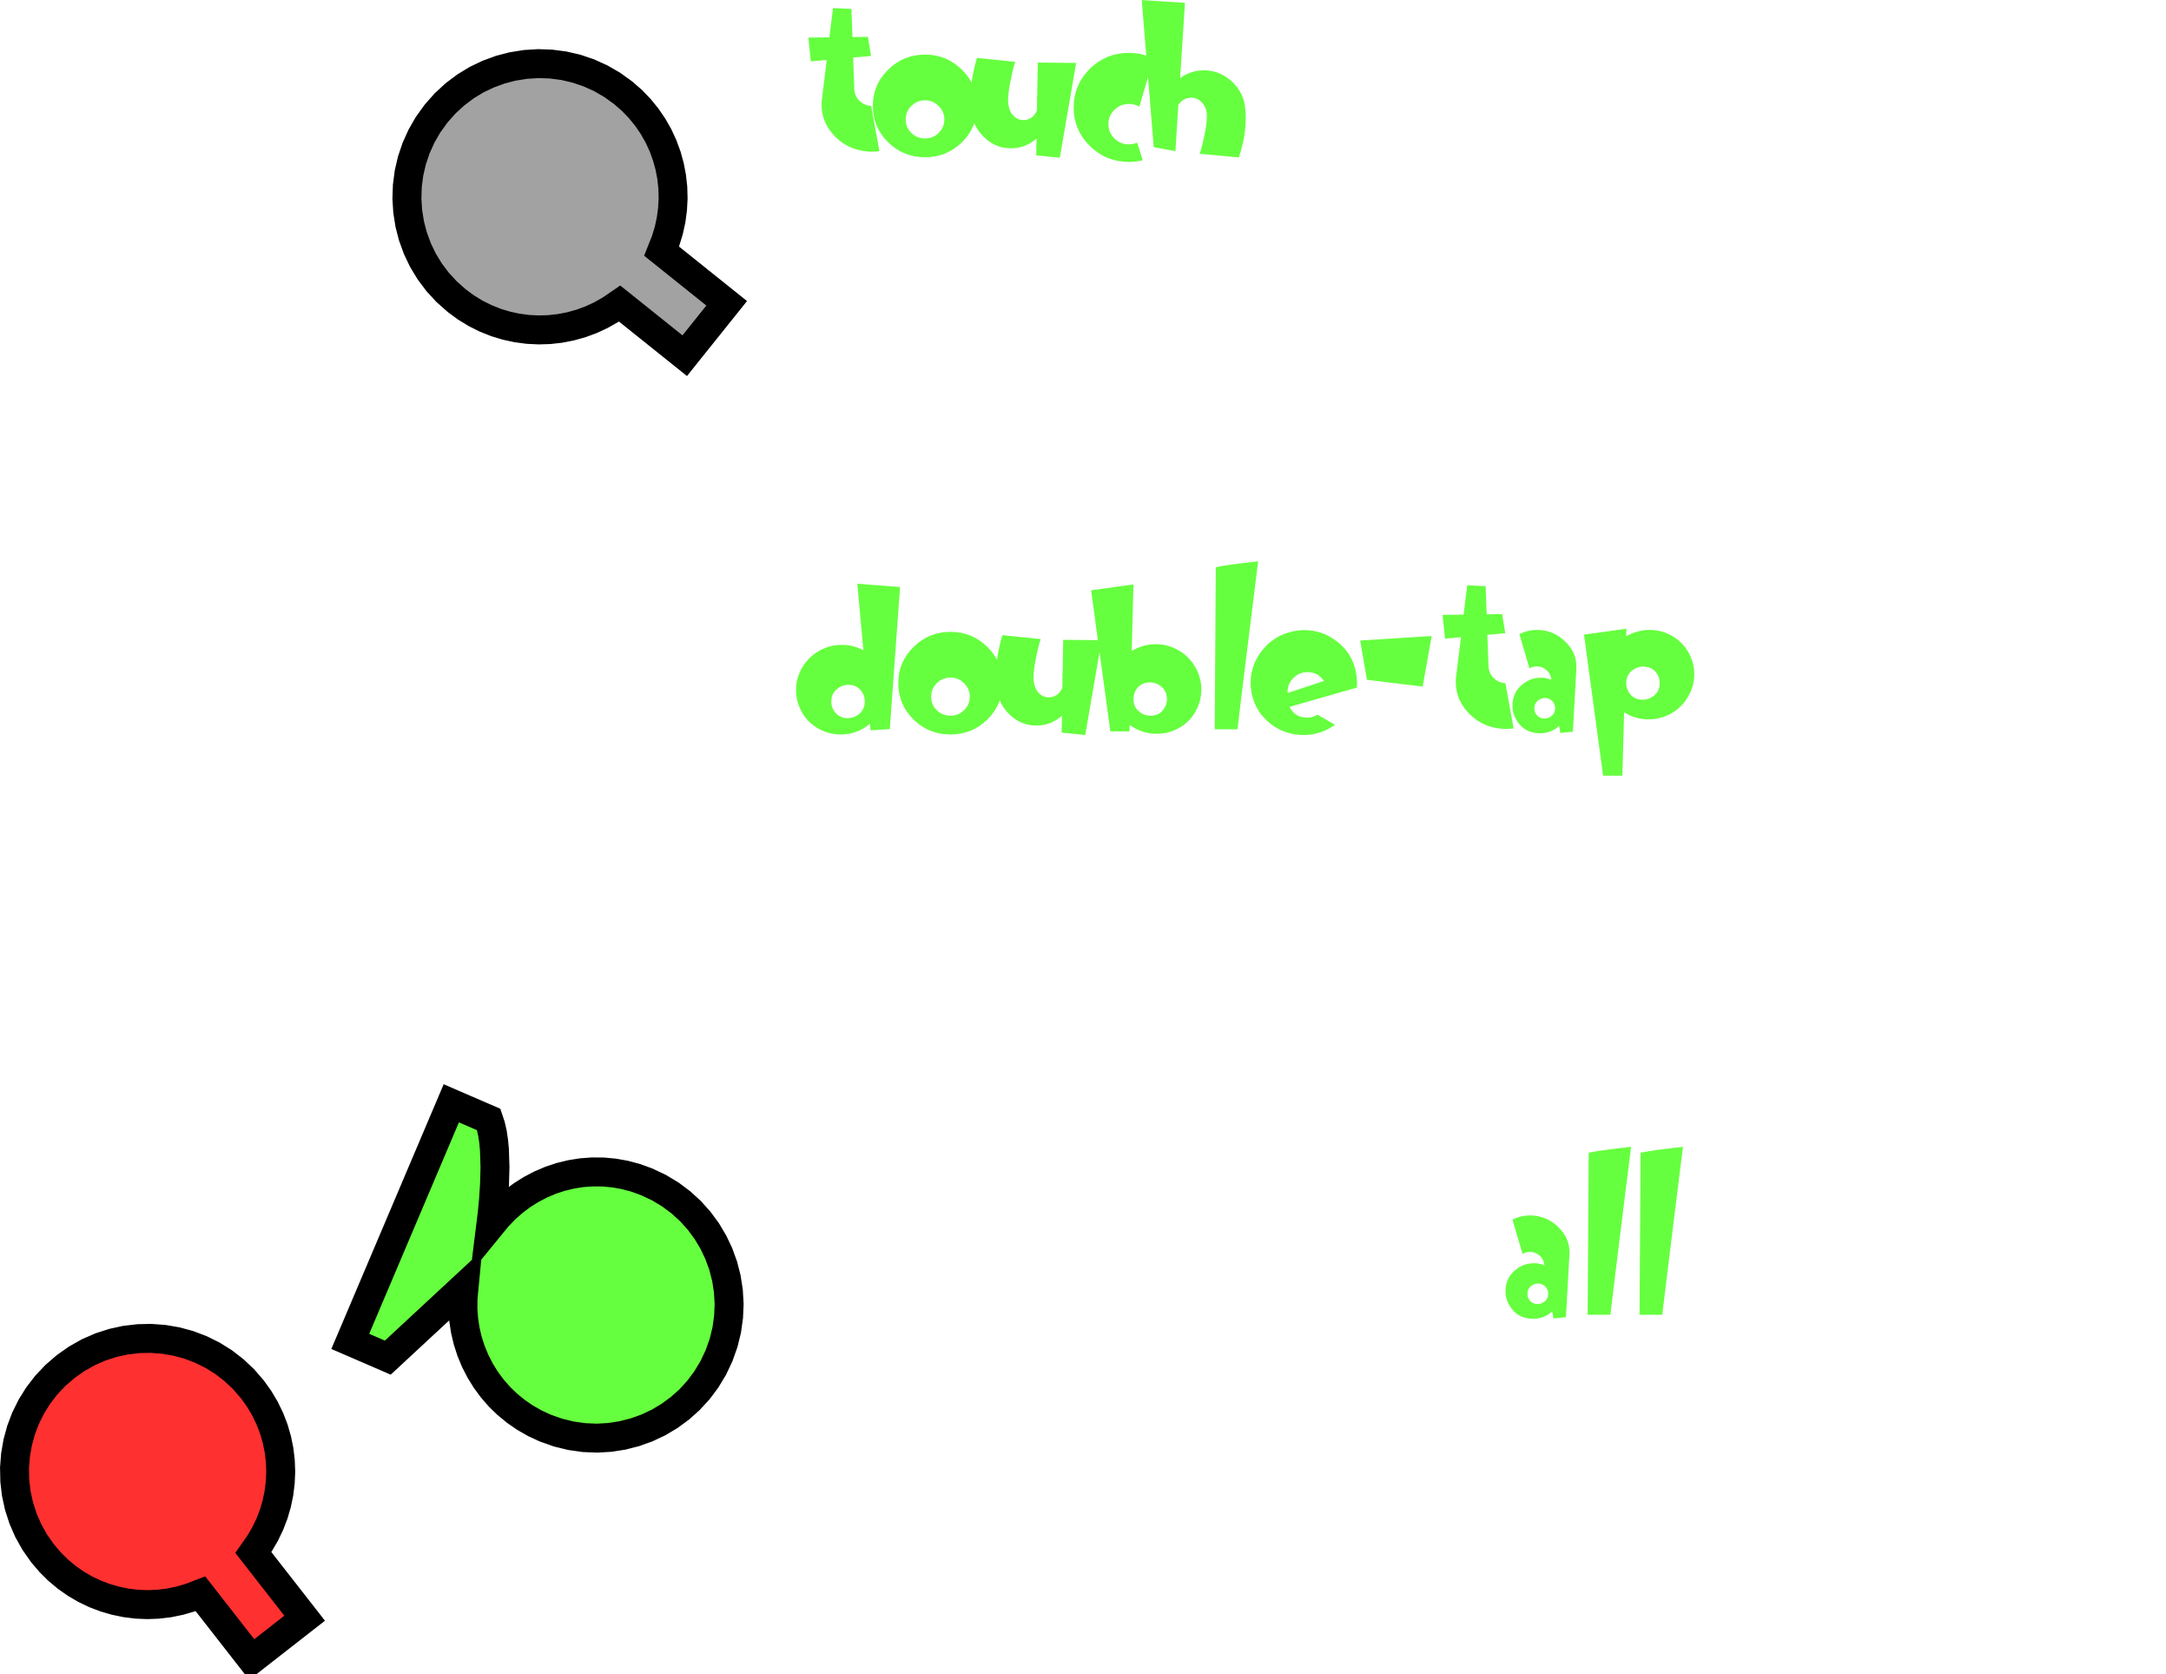
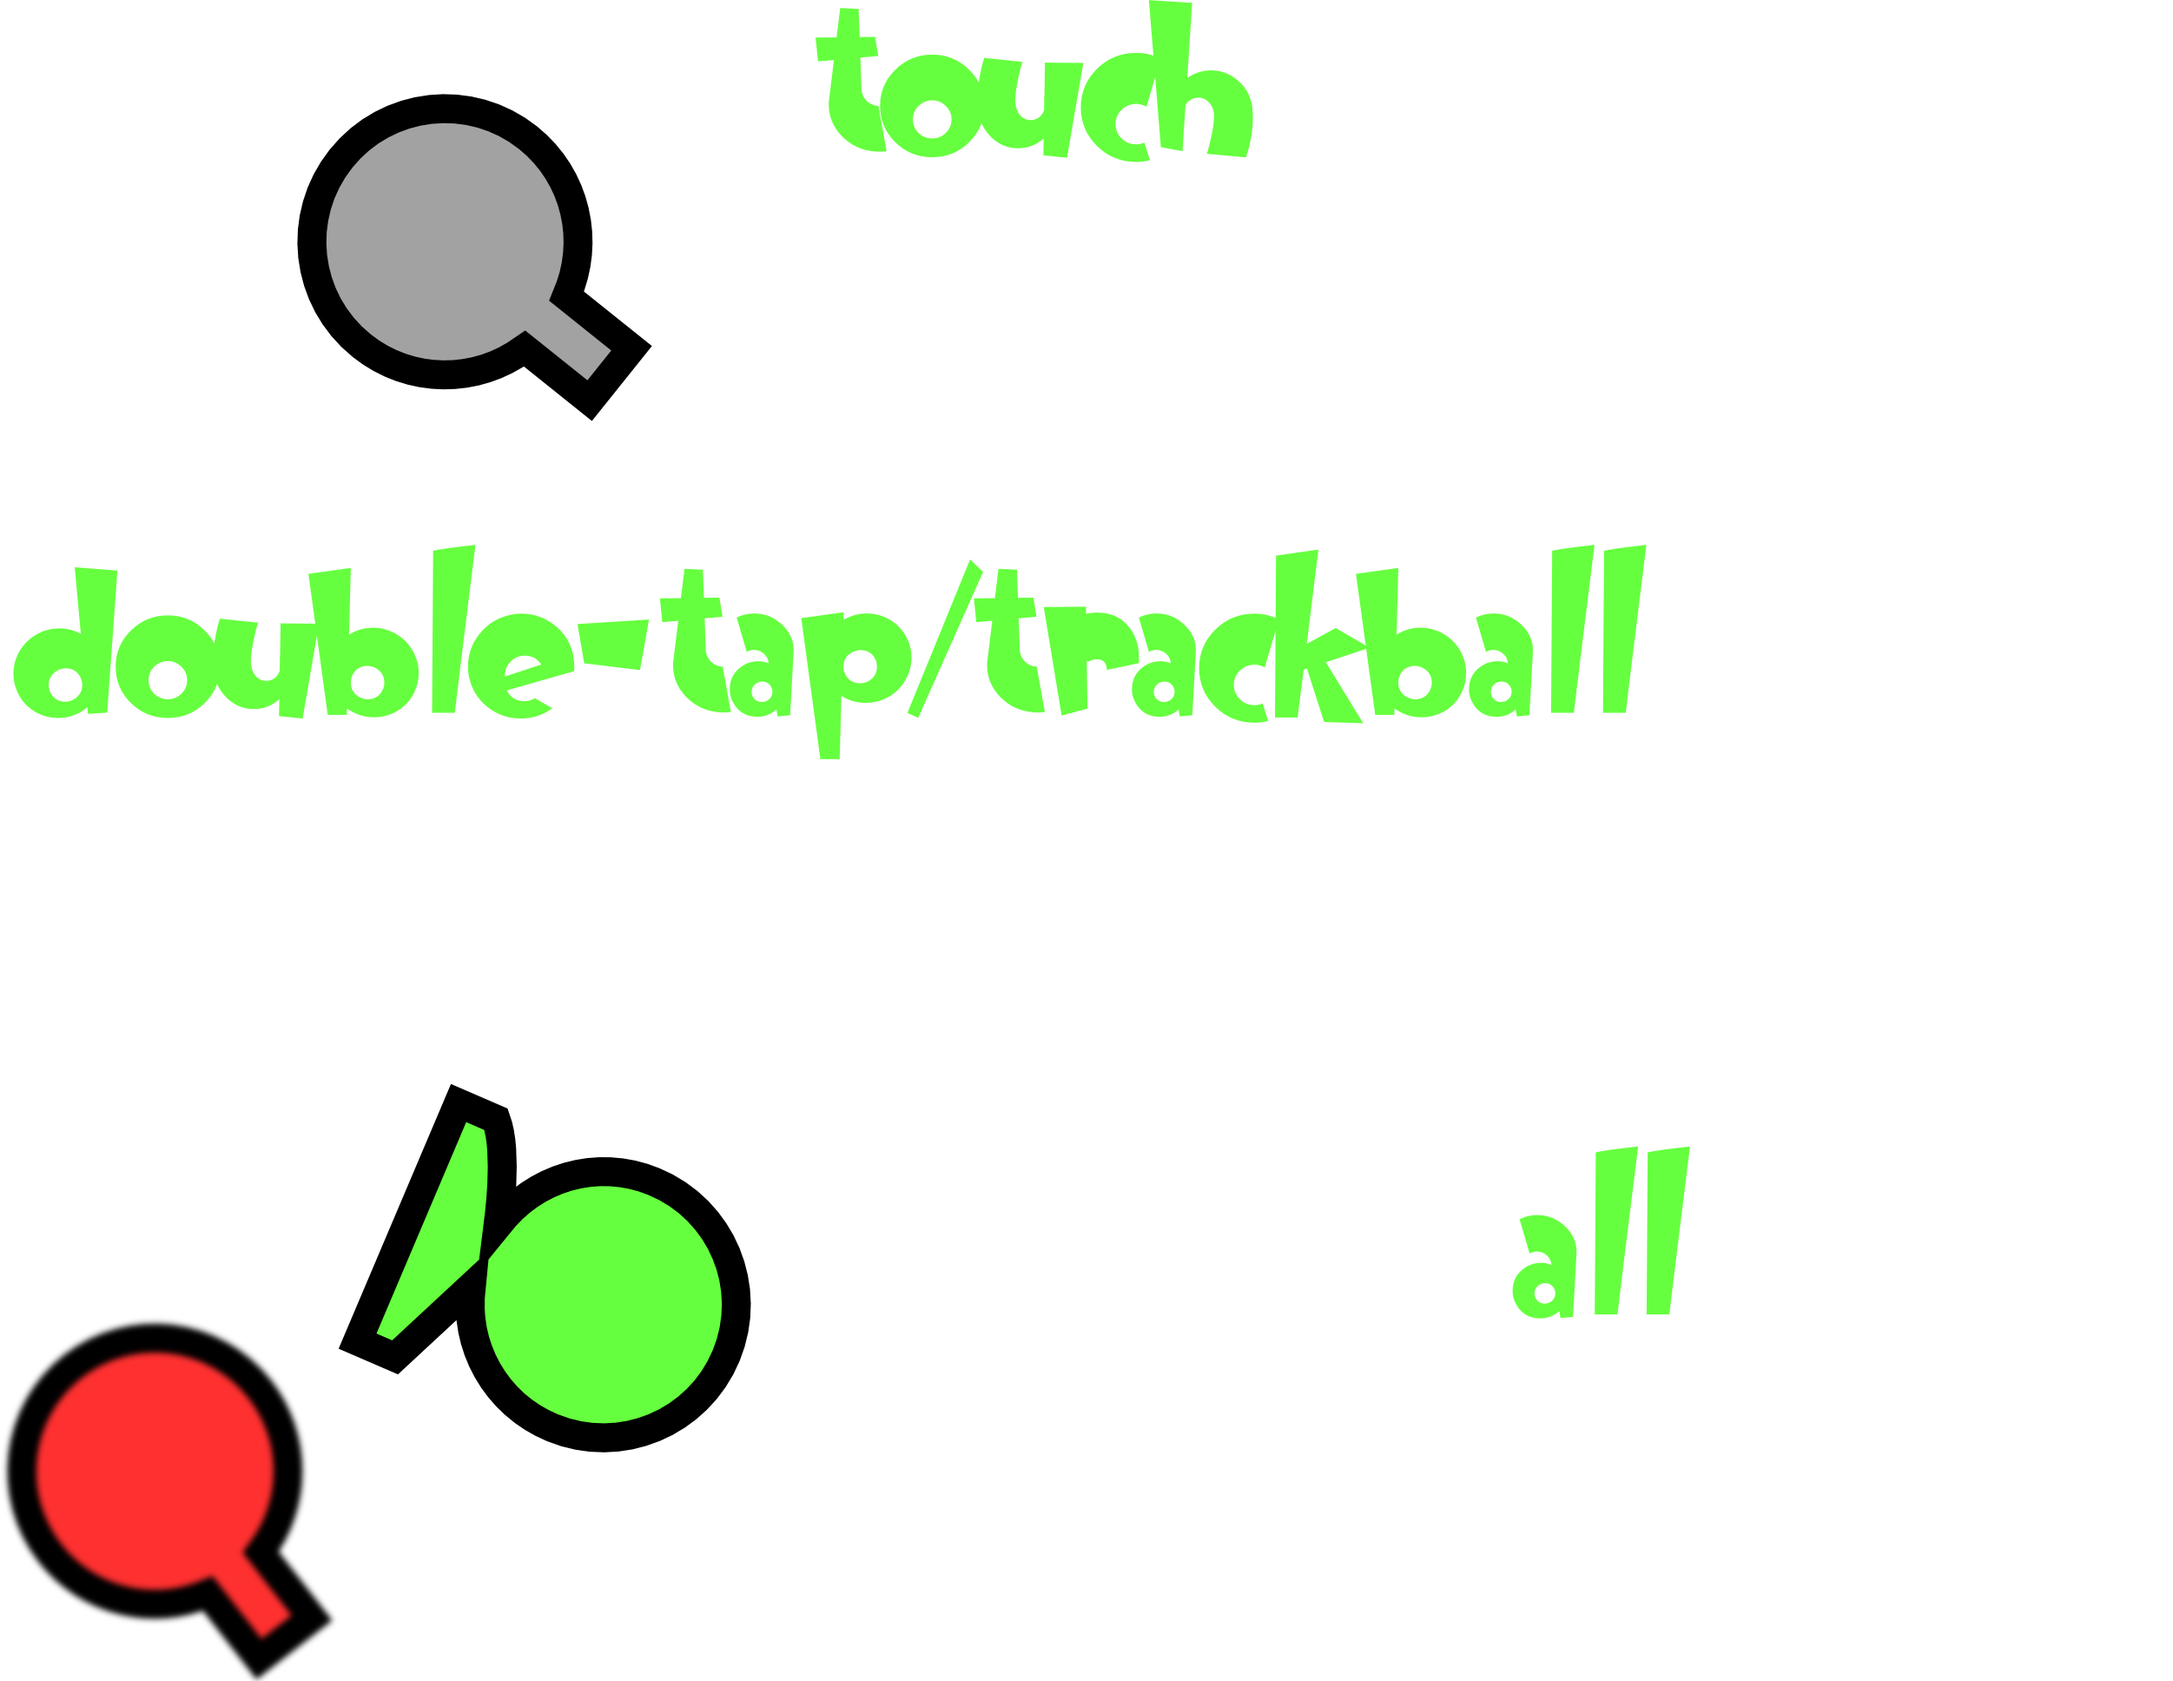
three input methods : touch/trackball/mixed. Mixed is default

diff --git a/project/jni/input/AndroidInputManager.cpp b/project/jni/input/AndroidInputManager.cpp
@@ -22,6 +22,7 @@ ProgressionManager* _progMan () { return ProgressionManager::getInstance(); }
 
 Vector2 gamePadPos(buttonsLeftX, 5.0f);
 Vector2 gamePadSize(2.5f,2.5f);
+Vector2 gamePadBBSize (3,3);
 
 AndroidInputManager::AndroidInputManager ()
   : InputManager(),
@@ -48,7 +49,7 @@ AndroidInputManager::AndroidInputManager ()
     shieldButtonTimer(SHIELD_BUTTON_COOLDOWN),
     bombButtonTimer(MINE_BUTTON_COOLDOWN),
     pressedItem(-1) {
-  setInputMode(INPUT_TOUCH);
+  setInputMode(INPUT_MIXED);
 }
 
 void AndroidInputManager::reset () {
@@ -73,7 +74,7 @@ void AndroidInputManager::setInputMode (eInputMode mode) {
     rocketButton.setEnabled(false);
 
   //BUTTONS position
-  const float buttonsX = (inputMode==INPUT_TOUCH)?buttonsRightX:buttonsLeftX;
+  const float buttonsX = (inputMode==INPUT_TRACKBALL)?buttonsLeftX:buttonsRightX;
   const Vector2 buttonSize (2.5,2.5);
   rocketButton.setPosition(Vector2(buttonsX, 5.25f));
   rocketButton.setSize(buttonSize);
@@ -86,6 +87,7 @@ void AndroidInputManager::setInputMode (eInputMode mode) {
   shieldButton.setBB(shieldButton.getPosition(), buttonSize);
 }
 
+#include "view/Square.h"
 
 void AndroidInputManager::draw () {
   const uint64_t now = Utils::getCurrentTimeMillis();
@@ -117,10 +119,11 @@ void AndroidInputManager::draw () {
   }
 
   //VISOR
-  if (inputMode == INPUT_TRACKBALL) {
+  if (inputMode == INPUT_MIXED ||
+      inputMode == INPUT_TRACKBALL)
     cursor.draw(cursorPosition, Vector2(1,1));
+  if (inputMode == INPUT_TRACKBALL)
     gamePad.draw(gamePadPos, gamePadSize);
-  }
 
 #ifdef FORM_CONTROL
   if (_progMan()->hasForms())
@@ -129,11 +132,11 @@ void AndroidInputManager::draw () {
 }
 
 bool inGamePad (Vector2 p) {
-  const float hW = gamePadSize.x/2.0f;
-  const float hH = gamePadSize.y/2.0f;
+  const float hW = gamePadBBSize.x/2.0f;
+  const float hH = gamePadBBSize.y/2.0f;
 
-  return ((p.x >= gamePadPos.x-hW) && (p.x <= gamePadPos.x + hW)) &&
-          ((p.y >= gamePadPos.y-hW) && (p.y <= gamePadPos.y + hH));
+  return ((p.x >= gamePadPos.x-hW) && (p.x <= gamePadPos.x+hW)) &&
+          ((p.y >= gamePadPos.y-hW) && (p.y <= gamePadPos.y+hH));
 }
 
 void AndroidInputManager::updateTankDir(const Vector2& touchPosition) {
@@ -142,12 +145,11 @@ void AndroidInputManager::updateTankDir(const Vector2& touchPosition) {
       Game::getInstance()->setTankMoveDir(touchPosition-Game::getInstance()->getPlayerTank()->getPosition());
       break;
     case MOVING_TANK_PAD: {
-      //When the user touch in the middle of the game pad, we shouldn't move
-      const Vector2 dir = touchPosition+Vector2(transX, transY) - gamePadPos;
-      if (dir.length() < 0.3f)
-        Game::getInstance()->setTankMoveDir(Vector2::ZERO);
-      else
-        Game::getInstance()->setTankMoveDir(dir);
+      //the -(0.5,0.5) to gamePadPos is just because the gamepad is on the left. When touching the gamepad with a left finger,
+      //we'll most likely get the touch event a bit too much to the left than what the user would. Therefore, we translate gamePadPos
+      //Basically, this is just a usability hack
+      const Vector2 dir = touchPosition+Vector2(transX, transY) - (gamePadPos-Vector2(0.5,0.5));
+      Game::getInstance()->setTankMoveDir(dir);
       break;
     }
     default:
@@ -231,7 +233,7 @@ void AndroidInputManager::touchEventDown (float x, float y) {
   //For buttons, we only consider events that couldn't be double tap
   if (state == FIRING_MODE || rocketButton.inside(pNoTrans)) {
     rocketButton.setPressed(true);
-  } else if (inputMode == INPUT_TOUCH && (tapDist < DOUBLETAP_DIST) && (elapsed < DOUBLETAP_TIME)) {
+  } else if ((inputMode == INPUT_TOUCH || inputMode == INPUT_MIXED) && (tapDist < DOUBLETAP_DIST) && (elapsed < DOUBLETAP_TIME)) {
     Game::getInstance()->playerFire(p);
     //startMoving(MOVING_TANK, p);
     //_setPressedItem(-1);
@@ -344,12 +346,16 @@ void AndroidInputManager::touchEventOther (float x, float y) {
 
 void AndroidInputManager::trackballMove (float rx, float ry) {
   if (GameManager::getInstance()->inGame()) {
+    if (inputMode == INPUT_TOUCH)
+      return;
     cursorPosition += Vector2(rx,ry);
   }
 }
 
 void AndroidInputManager::trackballClick (float rx, float ry) {
   if (GameManager::getInstance()->inGame()) {
+    if (inputMode == INPUT_TOUCH)
+      return;
     cursorPosition += Vector2(rx,ry);
     Game::getInstance()->playerFire(cursorPosition-Vector2(transX, transY));
   }

diff --git a/project/jni/view/menu/ControlOptionMenu.cpp b/project/jni/view/menu/ControlOptionMenu.cpp
@@ -10,6 +10,7 @@ ControlOptionMenu::ControlOptionMenu(GameManager* gm)
   : Menu(gm),
     inputTouch("assets/sprites/menuitems/input_touch.png", TEX_GROUP_MENU),
     inputTrackball("assets/sprites/menuitems/input_trackball.png", TEX_GROUP_MENU),
+    inputMixed("assets/sprites/menuitems/input_mixed.png", TEX_GROUP_MENU),
     optionDesc("assets/sprites/menuitems/controls_option.png", TEX_GROUP_MENU) {
   addItem(new MenuItem("assets/sprites/menuitems/back.png",
                        "assets/sprites/menuitems/back_h.png",
@@ -22,7 +23,7 @@ ControlOptionMenu::ControlOptionMenu(GameManager* gm)
                        TEX_GROUP_MENU));
 
   addItem(new MenuItem("assets/sprites/menuitems/prev.png",
-                       "assets/sprites/menuitems/prev.png",
+                       "assets/sprites/menuitems/prev_h.png",
                        MENU_ITEM_CONTROL_PREV,
                        TEX_GROUP_MENU));
   _initItems();
@@ -48,6 +49,11 @@ void ControlOptionMenu::draw () {
     case INPUT_TRACKBALL:
       inputTrackball.draw(inputDescPos, Vector2(8,4));
       break;
+    case INPUT_MIXED:
+      inputMixed.draw(inputDescPos, Vector2(8,4));
+      break;
+    default:
+      ASSERT(false);
   }
 
   optionDesc.draw(Vector2(4, 1), Vector2(8, 2));
@@ -55,8 +61,8 @@ void ControlOptionMenu::draw () {
   for (size_t i=0; i<numItems(); i++) {
      MenuItem* item = getItem(i);
      short id = item->getID();
-     if ((id == MENU_ITEM_CONTROL_PREV && mode == INPUT_TOUCH) ||
-         (id == MENU_ITEM_CONTROL_NEXT && mode == INPUT_TRACKBALL))
+     if ((id == MENU_ITEM_CONTROL_PREV && mode == 0) ||
+         (id == MENU_ITEM_CONTROL_NEXT && mode == NUM_INPUT_METHODS-1))
        continue;
 
      item->draw();
@@ -80,11 +86,17 @@ void ControlOptionMenu::_actionBack() {
 }
 
 void ControlOptionMenu::_actionNextCtrl () {
-  getInputManager()->setInputMode(INPUT_TRACKBALL);
+  eInputMode mode = getInputManager()->getInputMode();
+  if (mode == NUM_INPUT_METHODS-1)
+    return;
+  getInputManager()->setInputMode((eInputMode)(mode+1));
 }
 
 void ControlOptionMenu::_actionPrevCtrl () {
-  getInputManager()->setInputMode(INPUT_TOUCH);
+  eInputMode mode = getInputManager()->getInputMode();
+    if (mode == 0)
+      return;
+  getInputManager()->setInputMode((eInputMode)(mode-1));
 }
 
 void ControlOptionMenu::_initItems () {

diff --git a/project/jni/input/AndroidInputManager.h b/project/jni/input/AndroidInputManager.h
@@ -9,8 +9,10 @@
 #undef FORM_CONTROL
 
 enum eInputMode {
+    INPUT_MIXED=0, //touch to move/fire + trackball
     INPUT_TOUCH, //touch to move, double-tap to fire
-    INPUT_TRACKBALL //gamePad to move, trackball to fire
+    INPUT_TRACKBALL, //gamePad to move, trackball to fire
+    NUM_INPUT_METHODS
 };
 
 class AndroidInputManager : public InputManager {
@@ -38,9 +40,12 @@ class AndroidInputManager : public InputManager {
     float getLeftXMargin() {
       switch (inputMode) {
         case INPUT_TOUCH:
+        case INPUT_MIXED:
           return 1.0f;
         case INPUT_TRACKBALL:
           return 3.2f;
+        default:
+          ASSERT(false);
       }
     }
 

diff --git a/project/src/net/fhtagn/zoobgame/Zoob.java b/project/src/net/fhtagn/zoobgame/Zoob.java
@@ -143,6 +143,8 @@ class ZoobGLSurface extends GLSurfaceView {
 	public boolean onTouchEvent(final MotionEvent event) {
 		final float x = event.getX();
 		final float y = event.getY();
+		
+		//FIXME: use event.getSize() to calculate event center ?
 
 		Command c = null;
 		switch (event.getAction()) {

diff --git a/project/jni/view/GameManager.h b/project/jni/view/GameManager.h
@@ -136,8 +136,8 @@ class GameManager {
     void nextGame () {
       ASSERT(hasMoreLevels());
       currentLevel++;
-      LOGE("next Game");
-      levelLimit++;
+      if (currentLevel >= levelLimit)
+        levelLimit++;
       newGameCB(this);
     }
 

diff --git a/project/jni/view/menu/MenuItem.cpp b/project/jni/view/menu/MenuItem.cpp
@@ -20,7 +20,7 @@ void MenuItem::draw () const {
     hoverSprite.draw(pos, size);
   else
     normalSprite.draw(pos, size);
-  drawBB(bbPos, bbSize);
+  //drawBB(bbPos, bbSize);
 }
 
 void MenuItem::drawPressed () const {

diff --git a/project/jni/view/menu/ControlOptionMenu.h b/project/jni/view/menu/ControlOptionMenu.h
@@ -19,6 +19,7 @@ class ControlOptionMenu : public Menu {
 
     Sprite inputTouch;
     Sprite inputTrackball;
+    Sprite inputMixed;
     Sprite optionDesc;
 
 };
